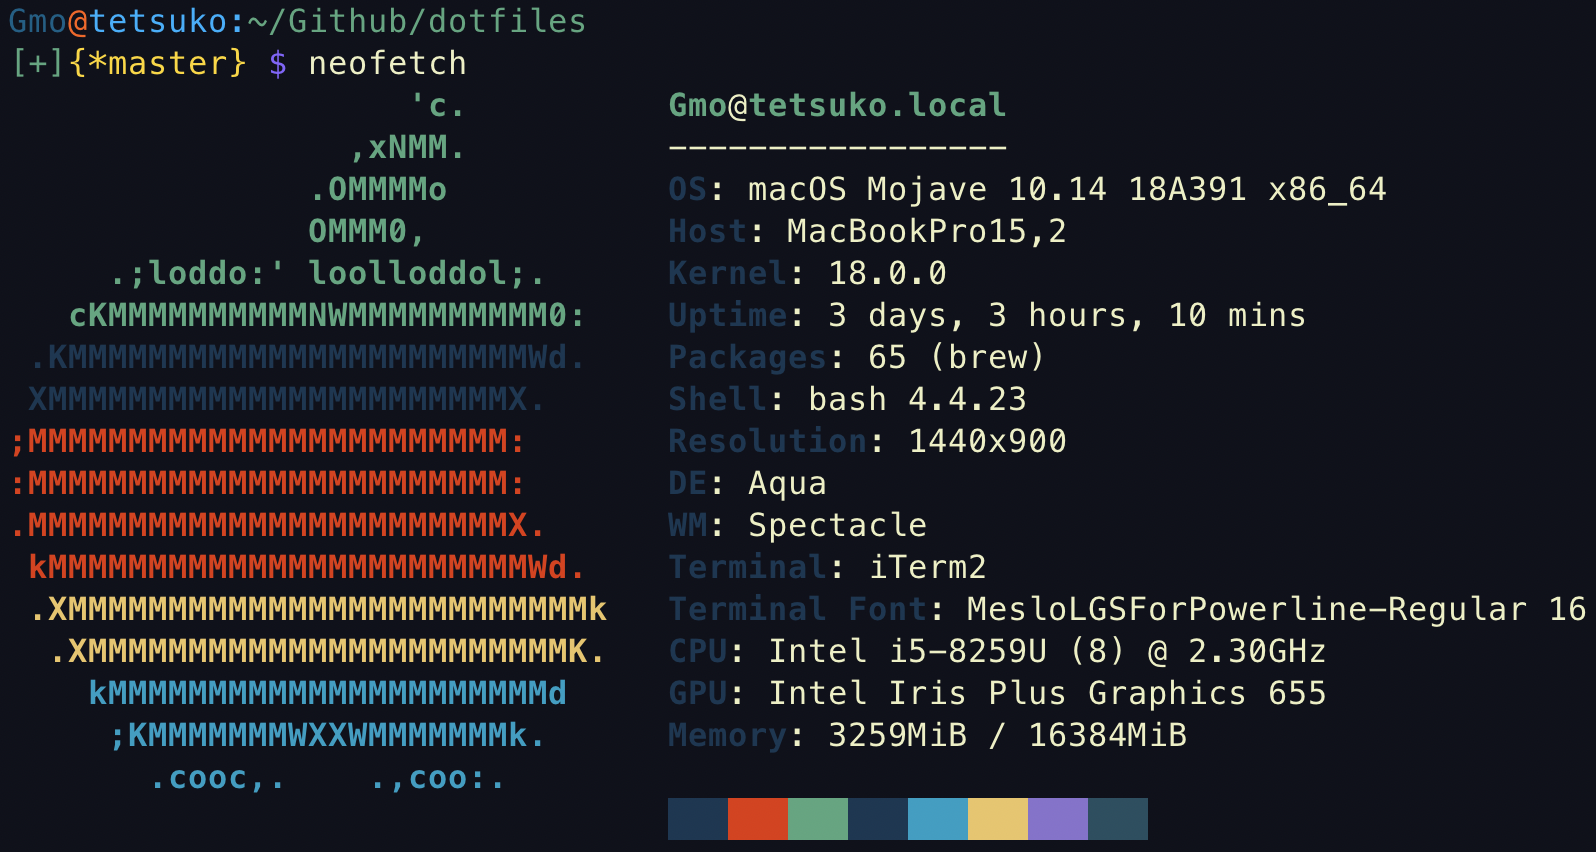
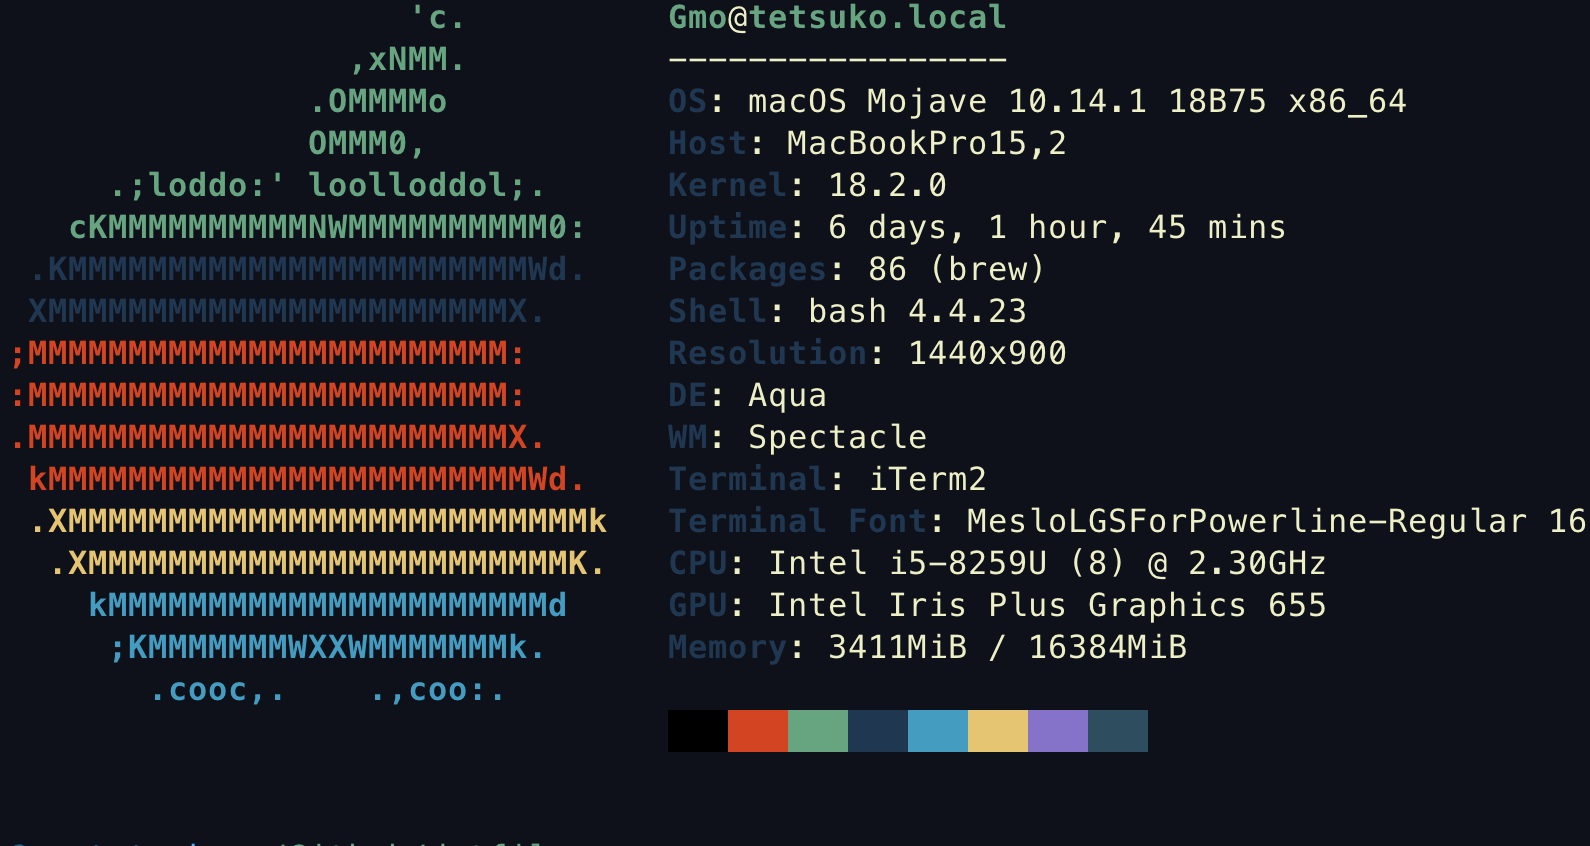
Update neofetch, brewlist, and silly vim things?

diff --git a/brew-packages/brew-list.md b/brew-packages/brew-list.md
@@ -1,4 +1,4 @@
-# Brew Packages 2018-11-27
+# Brew List
 * autoconf
 * bash
 * bash-completion
@@ -13,6 +13,7 @@
 * gcc
 * gdbm
 * gettext
+* ghostscript
 * gifsicle
 * git
 * gmp
@@ -56,6 +57,7 @@
 * opus
 * p11-kit
 * pandoc
+* pandoc-citeproc
 * pcre
 * pcre2
 * pkg-config
@@ -84,13 +86,15 @@
 * xz
 * yarn
 
-## Brew Cask Packages 2018-11-27
+# Brew Cask List
 * calibre
 * firefox
 * gimp
 * intellij-idea
 * keycastr
+* mactex
 * oni
 * powershell
 * rstudio
+* wkhtmltopdf
 * xquartz
